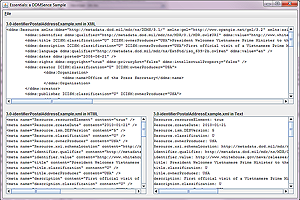
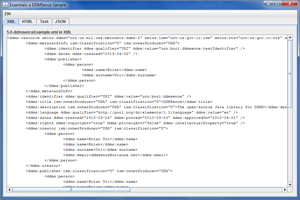
Issue #218: Updated Essentials and documentation.
git-svn-id: http://ddmsence.googlecode.com/svn/trunk@924 1f99f4d6-3056-11df-954b-21e382534593

diff --git a/src/samples/buri/ddmsence/samples/Essentials.java b/src/samples/buri/ddmsence/samples/Essentials.java
@@ -26,6 +26,7 @@ import java.io.File;
 
 import javax.swing.JFileChooser;
 import javax.swing.JPanel;
+import javax.swing.JTabbedPane;
 import javax.swing.filechooser.FileFilter;
 
 import org.xml.sax.SAXException;
@@ -37,13 +38,14 @@ import buri.ddmsence.util.PropertyReader;
 import buri.ddmsence.util.Util;
 
 /**
- * DDMSsentials is a simple reader application which loads a DDMS Resource from a file, and displays it in three
+ * DDMSsentials is a simple reader application which loads a DDMS Resource from a file, and displays it in four
  * formats.
  * 
  * <ol>
  * <li>The original XML</li>
- * <li>HTML, as defined by the DDMS Specification</li>
- * <li>Text, as defined by the DDMS Specification</li>
+ * <li>HTML, as suggested by the DDMS Specification</li>
+ * <li>Text, as suggested by the DDMS Specification</li>
+ * <li>JSON, in a comparable structure as the HTML/Text output</li>
  * </ol>
  * 
  * <p>
@@ -109,19 +111,24 @@ public class Essentials extends AbstractSample {
 			DDMSVersion fileVersion = guessVersion(file);
 			// The DDMS reader builds a Resource object from the XML in the file.
 			_resource = getReader(fileVersion).getDDMSResource(file);
-
-			// The three output formats
+			
+			// Apply pretty-printing to JSON
+			PropertyReader.setProperty("output.formatJson", "true");
+			
+			// The four output formats
 			String xmlFormat = getResource().toXML();
 			String htmlFormat = getResource().toHTML();
 			String textFormat = getResource().toText();
+			String jsonFormat = getResource().toJSON();
 
 			// Render the formats in the Swing GUI
-			JPanel htmlTextPanel = new JPanel(new GridLayout(1, 0));
-			htmlTextPanel.add(buildLabelledPanel(file.getName() + " in HTML", htmlFormat));
-			htmlTextPanel.add(buildLabelledPanel(file.getName() + " in Text", textFormat));
-			resultPanel = new JPanel(new GridLayout(0, 1));
-			resultPanel.add(buildLabelledPanel(file.getName() + " in XML", xmlFormat));
-			resultPanel.add(htmlTextPanel);
+			JTabbedPane pane = new JTabbedPane(JTabbedPane.TOP);
+			pane.add("XML", buildLabelledPanel(file.getName() + " in XML", xmlFormat));
+			pane.add("HTML", buildLabelledPanel(file.getName() + " in HTML", htmlFormat));
+			pane.add("Text", buildLabelledPanel(file.getName() + " in Text", textFormat));
+			pane.add("JSON", buildLabelledPanel(file.getName() + " in JSON", jsonFormat));
+			resultPanel = new JPanel(new GridLayout(1, 1));
+			resultPanel.add(pane);
 		}
 		catch (Exception e) {
 			resultPanel = buildErrorPanel("Could not create the DDMS Resource: ", e);
